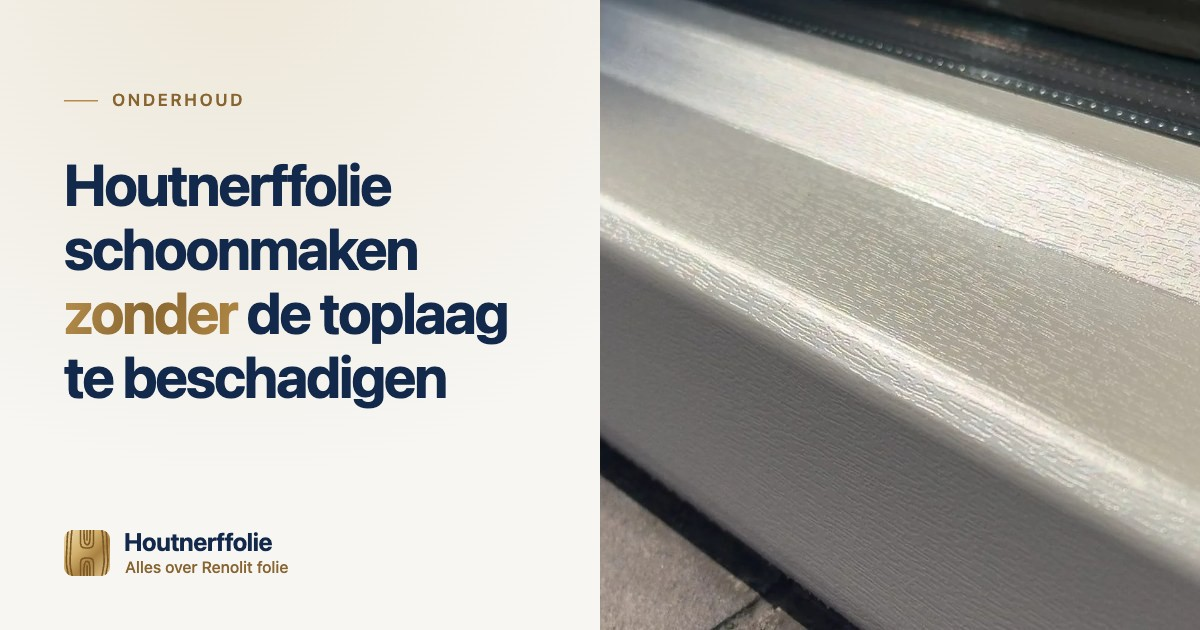
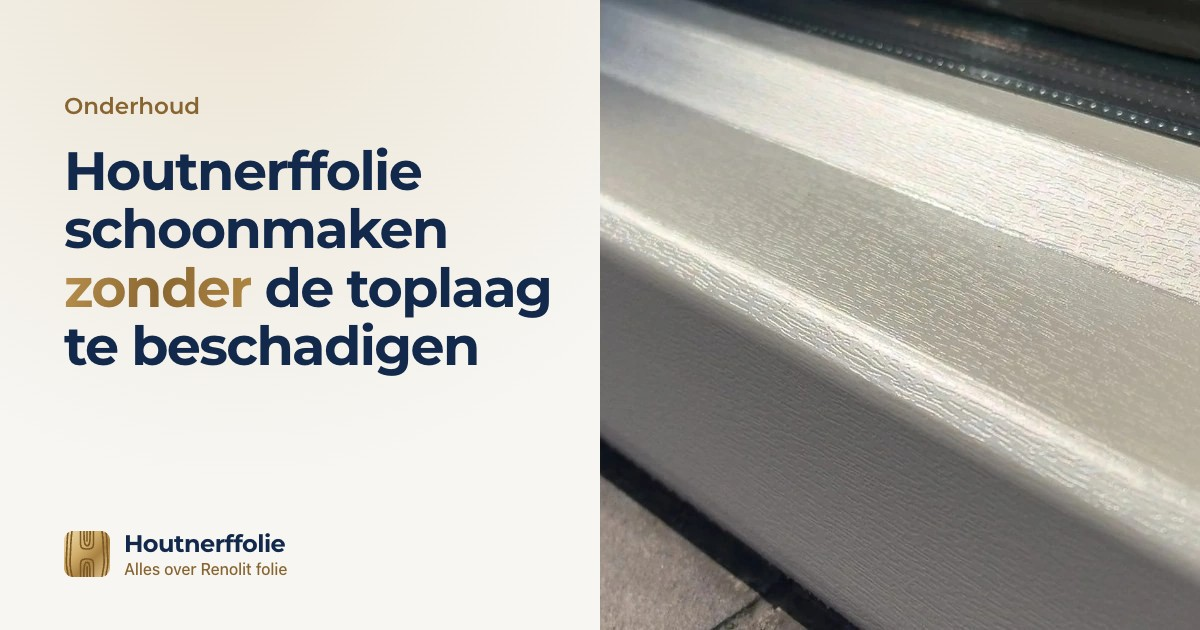
Deelafbeeldingen in het huidige ontwerp, met Montserrat
- Alle vijftien deelafbeeldingen (en og-image.jpg) opnieuw: het kleine kopje in gewone
  zinsopbouw in goud (geen kapitalen met een lijntje meer), de kop in Montserrat met de woorden
  met nadruk in goud, en het woordmerk zoals in de kop van de site. De beelden rechts zijn
  dezelfde gebleven, de teksten ook.
- tools/maak_og.py maakt ze voortaan opnieuw (Chrome via cdp.py), met de rechterhelften in
  tools/og-beelden/. De kop wordt zo groot als past, zonder kort woordje alleen op een regel.
- build.py zet de inhoud als versie achter het adres van de deelafbeelding (?v=), zodat
  WhatsApp, LinkedIn en Facebook de nieuwe ophalen.

Changed region(s): [[0.0308, 0.2413, 0.4625, 0.6635], [0.0617, 0.8444, 0.2467, 0.9349], [0.0308, 0.1508, 0.2158, 0.181]]

diff --git a/artikelen/kleur-kiezen-met-een-staal.html b/artikelen/kleur-kiezen-met-een-staal.html
@@ -14,7 +14,7 @@
 <meta property="og:title" content="Kozijnkleur kiezen: waarom een staal meer zegt dan een scherm">
 <meta property="og:description" content="Een kozijnkleur kiezen die in het echt ook goed uitpakt: waarom schermen en kleine stalen bedriegen, en hoe je een staal buiten beoordeelt tegen je eigen gevel.">
 <meta property="og:url" content="https://www.houtnerffolie.nl/artikelen/kleur-kiezen-met-een-staal">
-<meta property="og:image" content="https://www.houtnerffolie.nl/images/og/kleur-kiezen-met-een-staal.jpg">
+<meta property="og:image" content="https://www.houtnerffolie.nl/images/og/kleur-kiezen-met-een-staal.jpg?v=3b3e00cb">
 <meta property="og:image:width" content="1200">
 <meta property="og:image:height" content="630">
 <meta name="twitter:card" content="summary_large_image">

diff --git a/artikelen/houtnerffolie-schoonmaken.html b/artikelen/houtnerffolie-schoonmaken.html
@@ -14,7 +14,7 @@
 <meta property="og:title" content="Houtnerffolie schoonmaken zonder de toplaag te beschadigen">
 <meta property="og:description" content="Zo maak je gefolieerde kunststof kozijnen schoon: welk middel, hoe vaak, en welke schoonmaakmiddelen en hulpmiddelen de toplaag van de folie beschadigen.">
 <meta property="og:url" content="https://www.houtnerffolie.nl/artikelen/houtnerffolie-schoonmaken">
-<meta property="og:image" content="https://www.houtnerffolie.nl/images/og/houtnerffolie-schoonmaken.jpg">
+<meta property="og:image" content="https://www.houtnerffolie.nl/images/og/houtnerffolie-schoonmaken.jpg?v=0fcb28b8">
 <meta property="og:image:width" content="1200">
 <meta property="og:image:height" content="630">
 <meta name="twitter:card" content="summary_large_image">

diff --git a/artikelen/houtnerf-in-effen-kleuren.html b/artikelen/houtnerf-in-effen-kleuren.html
@@ -14,7 +14,7 @@
 <meta property="og:title" content="Waarom een effen kozijnfolie toch een houtnerf heeft">
 <meta property="og:description" content="Ook effen kozijnfolie in crèmewit of antraciet heeft een houtnerf. Wat die structuur is, waarom hij er zit, wanneer je hem ziet en hoe je hem herkent.">
 <meta property="og:url" content="https://www.houtnerffolie.nl/artikelen/houtnerf-in-effen-kleuren">
-<meta property="og:image" content="https://www.houtnerffolie.nl/images/og/houtnerf-in-effen-kleuren.jpg">
+<meta property="og:image" content="https://www.houtnerffolie.nl/images/og/houtnerf-in-effen-kleuren.jpg?v=e53ecebe">
 <meta property="og:image:width" content="1200">
 <meta property="og:image:height" content="630">
 <meta name="twitter:card" content="summary_large_image">

diff --git a/artikelen/populaire-kozijnkleuren.html b/artikelen/populaire-kozijnkleuren.html
@@ -14,7 +14,7 @@
 <meta property="og:title" content="De zes kozijnkleuren die het vaakst gekozen worden">
 <meta property="og:description" content="Crèmewit, wit, antracietgrijs, zwartgrijs, dennengroen en staalblauw: de zes houtnerfkleuren die het vaakst op kozijnen komen, en bij welk huis ze passen.">
 <meta property="og:url" content="https://www.houtnerffolie.nl/artikelen/populaire-kozijnkleuren">
-<meta property="og:image" content="https://www.houtnerffolie.nl/images/og/populaire-kozijnkleuren.jpg">
+<meta property="og:image" content="https://www.houtnerffolie.nl/images/og/populaire-kozijnkleuren.jpg?v=0b151439">
 <meta property="og:image:width" content="1200">
 <meta property="og:image:height" content="630">
 <meta name="twitter:card" content="summary_large_image">

diff --git a/artikelen/folie-en-temperatuur.html b/artikelen/folie-en-temperatuur.html
@@ -14,7 +14,7 @@
 <meta property="og:title" content="Waarom foliewerk tussen maart en november gebeurt">
 <meta property="og:description" content="Kozijnfolie hecht het best tussen 18 en 35 °C op een droge ondergrond. Waarom de temperatuur zo bepalend is, en wat dat betekent voor de planning van het werk.">
 <meta property="og:url" content="https://www.houtnerffolie.nl/artikelen/folie-en-temperatuur">
-<meta property="og:image" content="https://www.houtnerffolie.nl/images/og/folie-en-temperatuur.jpg">
+<meta property="og:image" content="https://www.houtnerffolie.nl/images/og/folie-en-temperatuur.jpg?v=1f74ec48">
 <meta property="og:image:width" content="1200">
 <meta property="og:image:height" content="630">
 <meta name="twitter:card" content="summary_large_image">

diff --git a/artikelen/ral-9001-of-ral-9010.html b/artikelen/ral-9001-of-ral-9010.html
@@ -14,7 +14,7 @@
 <meta property="og:title" content="RAL 9001 of RAL 9010: crèmewit en wit op kozijnen">
 <meta property="og:description" content="Crèmewit (RAL 9001) en wit (RAL 9010) lijken op elkaar, tot ze naast elkaar zitten. Het verschil, welk wit bij welk huis past en waar je op let bij herstel.">
 <meta property="og:url" content="https://www.houtnerffolie.nl/artikelen/ral-9001-of-ral-9010">
-<meta property="og:image" content="https://www.houtnerffolie.nl/images/og/ral-9001-of-ral-9010.jpg">
+<meta property="og:image" content="https://www.houtnerffolie.nl/images/og/ral-9001-of-ral-9010.jpg?v=964462c0">
 <meta property="og:image:width" content="1200">
 <meta property="og:image:height" content="630">
 <meta name="twitter:card" content="summary_large_image">

diff --git a/artikelen/groene-kozijnen.html b/artikelen/groene-kozijnen.html
@@ -14,7 +14,7 @@
 <meta property="og:title" content="Groene kozijnen: van dennengroen tot monumentengroen">
 <meta property="og:description" content="Dennengroen (RAL 6009), mosgroen (RAL 6005), Monumentengrün en Chartwell Green: de groene houtnerffolies voor kunststof kozijnen naast elkaar, en waar ze passen.">
 <meta property="og:url" content="https://www.houtnerffolie.nl/artikelen/groene-kozijnen">
-<meta property="og:image" content="https://www.houtnerffolie.nl/images/og/groene-kozijnen.jpg">
+<meta property="og:image" content="https://www.houtnerffolie.nl/images/og/groene-kozijnen.jpg?v=c376c768">
 <meta property="og:image:width" content="1200">
 <meta property="og:image:height" content="630">
 <meta name="twitter:card" content="summary_large_image">

diff --git a/artikelen/wat-elke-laag-doet.html b/artikelen/wat-elke-laag-doet.html
@@ -14,7 +14,7 @@
 <meta property="og:title" content="Wat elke laag van houtnerffolie doet | Houtnerffolie">
 <meta property="og:description" content="Toplaag, kleurlaag en lijmlaag: wat elk onderdeel van Renolit houtnerffolie doet, waarom de folie zo dun kan zijn en waar hij op den duur slijt.">
 <meta property="og:url" content="https://www.houtnerffolie.nl/artikelen/wat-elke-laag-doet">
-<meta property="og:image" content="https://www.houtnerffolie.nl/images/og/wat-elke-laag-doet.jpg">
+<meta property="og:image" content="https://www.houtnerffolie.nl/images/og/wat-elke-laag-doet.jpg?v=87967e71">
 <meta property="og:image:width" content="1200">
 <meta property="og:image:height" content="630">
 <meta name="twitter:card" content="summary_large_image">

diff --git a/artikelen/houtdecors.html b/artikelen/houtdecors.html
@@ -14,7 +14,7 @@
 <meta property="og:title" content="Houtdecors op een kunststof kozijn: eiken, noten, kers">
 <meta property="og:description" content="Golden Oak, Irish Oak, noten, kers en mahonie: hoe een houtdecor op kozijnfolie werkt, welke families er zijn en waar je op let bij het kiezen of aansluiten.">
 <meta property="og:url" content="https://www.houtnerffolie.nl/artikelen/houtdecors">
-<meta property="og:image" content="https://www.houtnerffolie.nl/images/og/houtdecors.jpg">
+<meta property="og:image" content="https://www.houtnerffolie.nl/images/og/houtdecors.jpg?v=254f051b">
 <meta property="og:image:width" content="1200">
 <meta property="og:image:height" content="630">
 <meta name="twitter:card" content="summary_large_image">

diff --git a/artikelen/index.html b/artikelen/index.html
@@ -14,7 +14,7 @@
 <meta property="og:title" content="Artikelen over houtnerffolie">
 <meta property="og:description" content="Achtergrond over Renolit folie op kunststof kozijnen: wat elke laag doet, hoe je een kleur kiest, welke houtdecors er zijn en hoe je de folie onderhoudt.">
 <meta property="og:url" content="https://www.houtnerffolie.nl/artikelen">
-<meta property="og:image" content="https://www.houtnerffolie.nl/images/og/artikelen.jpg">
+<meta property="og:image" content="https://www.houtnerffolie.nl/images/og/artikelen.jpg?v=7ce180d3">
 <meta property="og:image:width" content="1200">
 <meta property="og:image:height" content="630">
 <meta name="twitter:card" content="summary_large_image">

diff --git a/kleuren.html b/kleuren.html
@@ -14,7 +14,7 @@
 <meta property="og:title" content="Alle houtnerfkleuren van Renolit Exofol">
 <meta property="og:description" content="Alle kleuren Renolit folie met houtnerf: effen kleuren met RAL-code en houtdecors, gesorteerd op kleur. Bekijk elke kleur in 3D op een kozijn.">
 <meta property="og:url" content="https://www.houtnerffolie.nl/kleuren">
-<meta property="og:image" content="https://www.houtnerffolie.nl/images/og/kleuren.jpg">
+<meta property="og:image" content="https://www.houtnerffolie.nl/images/og/kleuren.jpg?v=02a57cf6">
 <meta property="og:image:width" content="1200">
 <meta property="og:image:height" content="630">
 <meta name="twitter:card" content="summary_large_image">

diff --git a/index.html b/index.html
@@ -14,7 +14,7 @@
 <meta property="og:title" content="Renolit houtnerffolie, laag voor laag">
 <meta property="og:description" content="Kozijnfolie uit het hoogste segment: hoe Renolit folie is opgebouwd en waarom hij zo lang meegaat, in 3D uitgelegd.">
 <meta property="og:url" content="https://www.houtnerffolie.nl/">
-<meta property="og:image" content="https://www.houtnerffolie.nl/images/og/home.jpg">
+<meta property="og:image" content="https://www.houtnerffolie.nl/images/og/home.jpg?v=83d0384d">
 <meta property="og:image:width" content="1200">
 <meta property="og:image:height" content="630">
 <meta name="twitter:card" content="summary_large_image">
